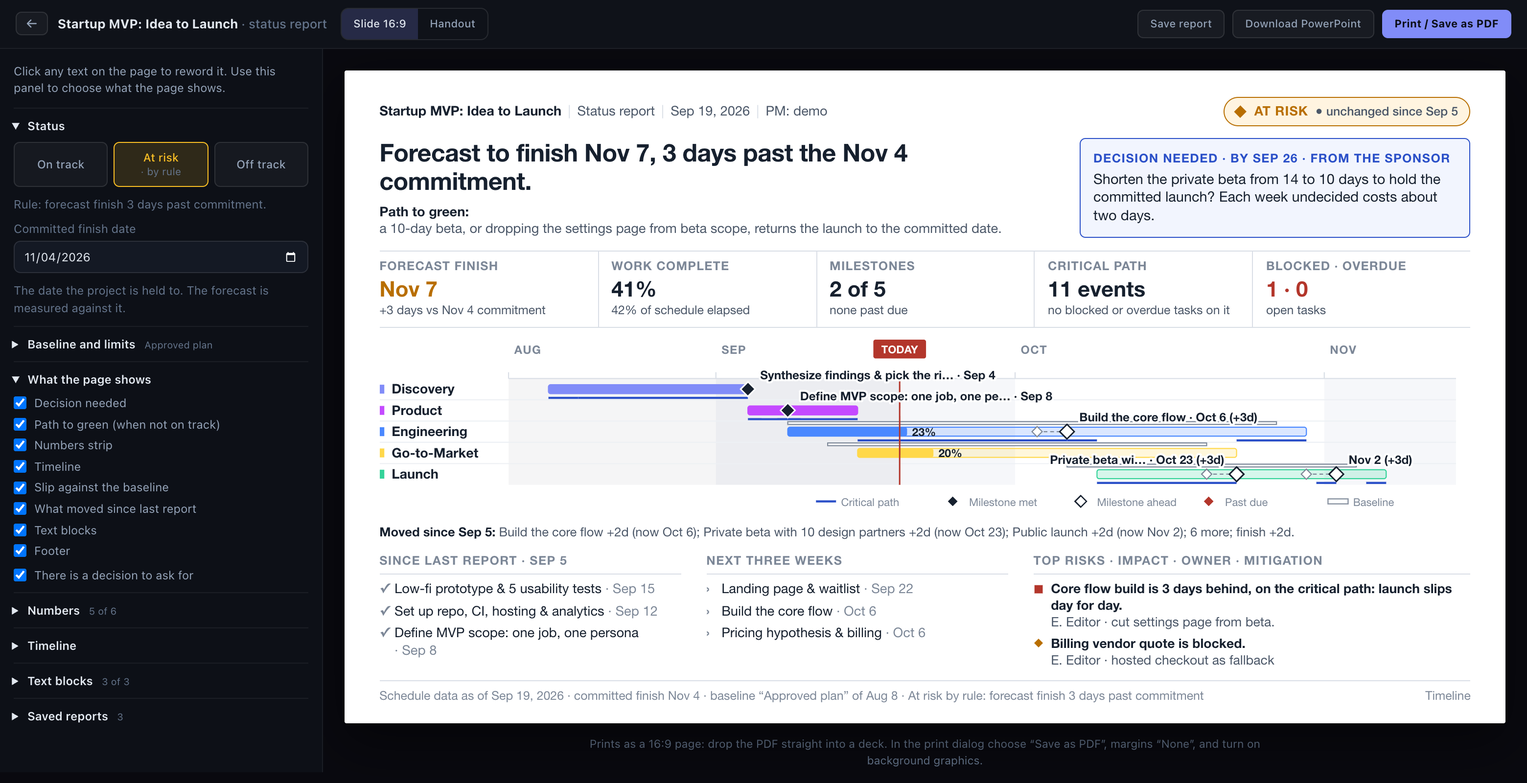
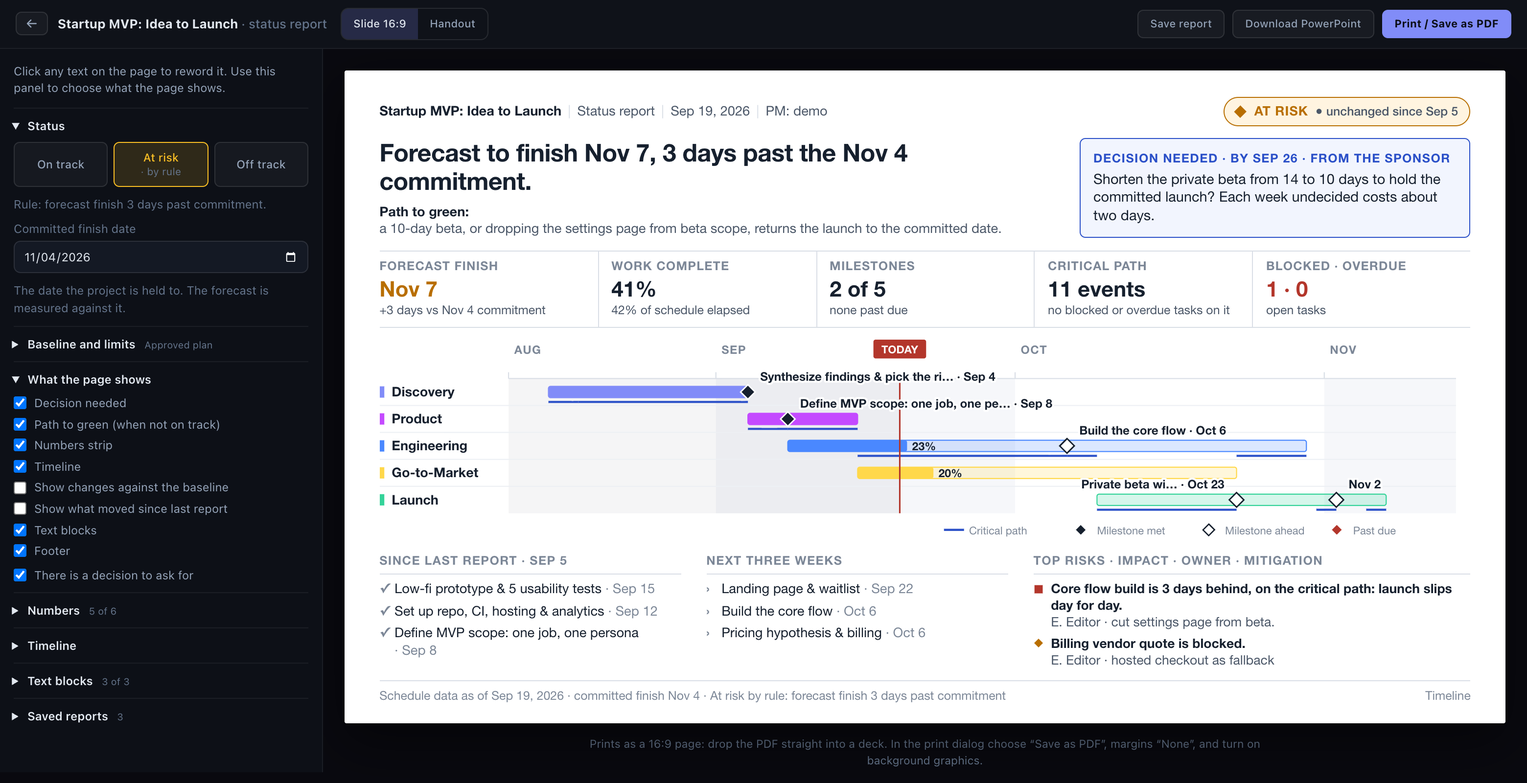
Status report: plan changes are opt-in, per report
Changing a plan is healthy, and how often it changed is for specific
audiences, not every report. A baseline by itself now shows nothing anywhere,
not even in the footer. "Show changes against the baseline" and "Show what
moved since last report" start unticked, like the trend chart; the baseline
panel stays closed and its hint says it is optional. The choice is saved with
the report. The PowerPoint export follows the same rule, and the sample
project's earlier reports start with all three switched off.

README, user guide and design doc reframed to match; screenshots retaken.

Changed region(s): [[0.2487, 0.4688, 0.9327, 0.6875], [0.4663, 0.875, 0.7772, 0.9062], [0.0, 0.5938, 0.1554, 0.6562]]

diff --git a/frontend/src/pages/StatusReportPage.jsx b/frontend/src/pages/StatusReportPage.jsx
@@ -49,7 +49,6 @@ export default function StatusReportPage() {
   const [saved, setSaved]       = useState([])
   const [baselines, setBaselines] = useState([])
   const [baseName, setBaseName] = useState('')
-  const [baseOpen, setBaseOpen] = useState(null)      // null = decide from the project: open until a baseline exists
   const [limits, setLimits]     = useState({})        // threshold inputs, as typed
   const [savedId, setSavedId]   = useState(null)      // set when showing/editing a saved report
   const [frozen, setFrozen]     = useState(false)     // true = facts come from a saved snapshot
@@ -115,7 +114,7 @@ export default function StatusReportPage() {
   const takeBaseline = async () => {
     const name = baseName.trim() || `Plan of ${fmtLong()}`
     setBusy(true)
-    try { await api.baselines.create(projectId, name); setBaseName(''); setBaseOpen(true); await load({ keepDoc: true }); flash('Baseline set: slip is now measured against today’s plan', 'saved') }
+    try { await api.baselines.create(projectId, name); setBaseName(''); await load({ keepDoc: true }); flash('Baseline set. Tick “Show changes against the baseline” on any report that should show them', 'saved') }
     catch { flash('Could not set the baseline.', 'error') }
     finally { setBusy(false) }
   }
@@ -198,6 +197,10 @@ export default function StatusReportPage() {
     <label className="sr-check" key={key}><input type="checkbox" checked={doc.show[key] !== false} onChange={e => set(`show.${key}`, e.target.checked)} />{label}</label>
   )
 
+  const optIn = (key, label) => (
+    <label className="sr-check" key={key}><input type="checkbox" checked={doc.show[key] === true} onChange={e => set(`show.${key}`, e.target.checked)} />{label}</label>
+  )
+
   return (
     <div className="sr-shell">
       <header className="sr-bar">
@@ -250,12 +253,12 @@ export default function StatusReportPage() {
             <p className="sr-hint">The date the project is held to. The forecast is measured against it.</p>
           </details>
 
-          <details open={baseOpen ?? (canEdit && !!facts && !facts.empty && !facts.baseline)} onToggle={e => setBaseOpen(e.currentTarget.open)}>
+          <details>
             <summary>Baseline and limits <small>{facts?.baseline ? facts.baseline.name : 'no baseline'}</small></summary>
             <div className="sr-base">
               {facts?.baseline
-                ? <p className="sr-hint">Slip is measured against <b>{facts.baseline.name}</b>, frozen {fmtLong(facts.baseline.created_at)}: {facts.baseline.moved} event{facts.baseline.moved === 1 ? '' : 's'} moved, {facts.baseline.added} added, {facts.baseline.removed} removed since.</p>
-                : <p className="sr-note sr-note--tip" id="sr-base-tip"><b>No baseline yet.</b> When the plan is approved, name it and click Set baseline. That freezes today’s dates, so later reports can show exactly what slipped and by how much. Nothing changes on the page until a date moves.</p>}
+                ? <p className="sr-hint">{doc.show.baseline === true ? 'This report shows changes' : 'This report does not show them. If you tick “Show changes against the baseline”, they are measured'} against <b>{facts.baseline.name}</b>, frozen {fmtLong(facts.baseline.created_at)}: {facts.baseline.moved} event{facts.baseline.moved === 1 ? '' : 's'} moved, {facts.baseline.added} added, {facts.baseline.removed} removed since.</p>
+                : <p className="sr-hint" id="sr-base-tip"><b>Optional.</b> A baseline freezes today’s dates as the approved plan, so a report <i>can</i> show how the plan has changed since. Plans should change; this is for the audiences that need to see it. Setting one shows nothing by itself: it only appears on a report where you tick “Show changes against the baseline”.</p>}
               {canEdit && (
                 <div className="sr-base-row">
                   <input id="sr-base-name" value={baseName} maxLength={80} onChange={e => setBaseName(e.target.value)} placeholder={facts?.baseline ? 'Name for the new baseline' : 'e.g. Approved plan'} aria-label="Baseline name" />
@@ -284,8 +287,9 @@ export default function StatusReportPage() {
               {showToggle('pathToGreen', 'Path to green (when not on track)')}
               {showToggle('kpis', 'Numbers strip')}
               {showToggle('timeline', 'Timeline')}
-              {facts?.baseline && showToggle('baseline', 'Slip against the baseline')}
-              {facts?.since_last && showToggle('moved', 'What moved since last report')}
+              {/* Off unless chosen: how much a plan has moved is for specific audiences, not every report. */}
+              {facts?.baseline && optIn('baseline', 'Show changes against the baseline')}
+              {facts?.since_last && optIn('moved', 'Show what moved since last report')}
               {layout === 'handout' && (facts?.history?.length || 0) >= 2 && (
                 <label className="sr-check"><input type="checkbox" checked={doc.show.trend === true} onChange={e => set('show.trend', e.target.checked)} />Milestone trend chart</label>)}
               {showToggle('columns', 'Text blocks')}

diff --git a/frontend/src/components/report/reportModel.js b/frontend/src/components/report/reportModel.js
@@ -99,7 +99,7 @@ export function newDocument({ facts, suggestion, previous, user }) {
     headline: suggestion.headline,
     pathToGreen: '',
     moved: draftMoved(facts),
-    show: { pathToGreen: true, decision: true, kpis: true, timeline: true, baseline: true, moved: true, trend: false, columns: true, milestoneTable: true, footer: true, ...(prev?.show || {}) },
+    show: { pathToGreen: true, decision: true, kpis: true, timeline: true, baseline: false, moved: false, trend: false, columns: true, milestoneTable: true, footer: true, ...(prev?.show || {}) },
     decision: { none: prev?.decision?.none ?? true, title: prev?.decision?.title || 'Decision needed', text: prev?.decision?.text || '', neededBy: prev?.decision?.neededBy || '', from: prev?.decision?.from || '' },
     kpis: autoKpis(facts),
     timeline: { hiddenRows: prev?.timeline?.hiddenRows || [], milestoneIds: prev?.timeline?.milestoneIds ?? null, showCritical: prev?.timeline?.showCritical ?? true, showProgress: prev?.timeline?.showProgress ?? true },
@@ -148,7 +148,7 @@ export function footerText(doc, report, facts) {
   const parts = [`Schedule data as of ${fmtLong(facts?.as_of)}`]
   if (facts?.project?.committed_end) parts.push(`${facts.project.commitment_source === 'baseline' ? 'baseline' : 'committed'} finish ${fmtDateOnly(facts.project.committed_end)}`)
   else parts.push('no committed finish date set')
-  if (facts?.baseline) parts.push(`baseline “${facts.baseline.name}” of ${fmtDay(facts.baseline.created_at)}`)
+  if (facts?.baseline && doc.show?.baseline === true) parts.push(`baseline “${facts.baseline.name}” of ${fmtDay(facts.baseline.created_at)}`)
   if (report.status_source === 'override') parts.push(`status set by the author: ${report.override_reason || 'no reason given'}`)
   else if (report.rule_fired) parts.push(`${STATUS[report.status]?.label} by rule: ${report.rule_fired}`)
   return parts.join(' · ')

diff --git a/frontend/src/components/report/StatusPage.jsx b/frontend/src/components/report/StatusPage.jsx
@@ -68,7 +68,7 @@ export default function StatusPage({ doc, report, facts, layout, previous, set, 
     ? `${(['on_track', 'at_risk', 'off_track'].indexOf(report.status) > ['on_track', 'at_risk', 'off_track'].indexOf(previous.status)) ? '▼' : '▲'} was ${STATUS[previous.status]?.label} · ${fmtDay(previous.as_of)}`
     : previous ? `● unchanged since ${fmtDay(previous.as_of)}` : ''
   const handout = layout === 'handout'
-  const withBase = !!facts?.baseline && show.baseline !== false
+  const withBase = !!facts?.baseline && show.baseline === true      // slip is opt-in, per report
   const cols = (doc.columns || []).filter(c => !c.hidden)
 
   const decision = show.decision && (
@@ -161,9 +161,9 @@ export default function StatusPage({ doc, report, facts, layout, previous, set, 
 
         {show.timeline && <ReportTimeline facts={facts} rows={rows} milestones={milestones} dense={handout}
                                           showCritical={doc.timeline?.showCritical !== false} showProgress={doc.timeline?.showProgress !== false}
-                                          showBaseline={show.baseline !== false} />}
+                                          showBaseline={show.baseline === true} />}
 
-        {show.moved !== false && facts?.since_last && (doc.moved || !ro) && (
+        {show.moved === true && facts?.since_last && (doc.moved || !ro) && (
           <div className="sr-moved sr-opt" data-empty={!doc.moved}><b>Moved since {fmtDay(facts.since_last.as_of)}: </b>
             <Editable value={doc.moved} onChange={v => set('moved', v)} readOnly={ro} multiline maxLength={220} placeholder="which dates moved, and by how much." /></div>)}
 

diff --git a/frontend/src/components/report/ReportTimeline.jsx b/frontend/src/components/report/ReportTimeline.jsx
@@ -14,7 +14,7 @@ const W = 1000
 const MONTHS = ['JAN', 'FEB', 'MAR', 'APR', 'MAY', 'JUN', 'JUL', 'AUG', 'SEP', 'OCT', 'NOV', 'DEC']
 const INK = '#16202E', INK3 = '#7C8797', RULE = '#D9DEE6', ACCENT = '#2B50C8', WARN = '#B86E00', BAD = '#B3362B'
 
-export default function ReportTimeline({ facts, rows, milestones, showCritical = true, showProgress = true, showBaseline = true, dense = false }) {
+export default function ReportTimeline({ facts, rows, milestones, showCritical = true, showProgress = true, showBaseline = false, dense = false }) {
   const wrapRef = useRef(null)
   const [aspect, setAspect] = useState(dense ? 0.4 : 0.2)
 

diff --git a/backend/events/tests_pptx_export.py b/backend/events/tests_pptx_export.py
@@ -219,7 +219,7 @@ class PptxBaselineTests(_Base):
         launch.save()
         saved = list(StatusReport.objects.filter(project=self.project))
         self.facts = json.loads(json.dumps(build_facts(self.project, now=now, previous_snapshot=saved[0].snapshot, history=history_from(saved))))
-        self.doc = {**self.doc, 'moved': 'Public launch +5d (now later); finish +5d.'}
+        self.doc = {**self.doc, 'moved': 'Public launch +5d (now later); finish +5d.', 'show': {'baseline': True, 'moved': True}}
 
     def names(self, prs):
         return [s.name for s in _walk(prs.slides[0].shapes)]
@@ -234,15 +234,20 @@ class PptxBaselineTests(_Base):
         self.assertIn('Baseline', [s.text_frame.text for s in _walk(prs.slides[0].shapes) if s.name == 'Legend' and s.has_text_frame])
         self.assertIn('baseline “Approved plan”', _all_text(prs.slides[0]))
 
-    def test_ghosts_can_be_switched_off(self):
-        prs = self.build(facts=self.facts, doc={**self.doc, 'show': {'baseline': False}})
-        self.assertFalse([n for n in self.names(prs) if 'baseline' in n.lower()])
+    def test_slip_is_opt_in_a_baseline_alone_shows_nothing(self):
+        for show in ({}, {'baseline': False}):
+            prs = self.build(facts=self.facts, doc={**self.doc, 'show': show})
+            self.assertFalse([n for n in self.names(prs) if 'baseline' in n.lower()])
+            text = _all_text(prs.slides[0])
+            self.assertNotIn('Approved plan', text)                  # not even in the footer
+            self.assertNotIn('Moved since', text)
+            self.assertNotIn('(+5d)', text)
 
     def test_what_moved_is_printed_with_the_previous_report_date(self):
         text = _all_text(self.build(facts=self.facts).slides[0])
         self.assertIn('Moved since', text)
         self.assertIn('Public launch +5d', text)
-        self.assertNotIn('Moved since', _all_text(self.build(facts=self.facts, doc={**self.doc, 'show': {'moved': False}}).slides[0]))
+        self.assertNotIn('Moved since', _all_text(self.build(facts=self.facts, doc={**self.doc, 'show': {'baseline': True}}).slides[0]))
 
     def test_handout_table_gains_baseline_forecast_and_slip(self):
         prs = self.build(facts=self.facts, layout='handout')
@@ -253,7 +258,7 @@ class PptxBaselineTests(_Base):
         self.assertEqual(rows['Scope locked'][3], 'on plan')
 
     def test_trend_chart_is_native_lines_on_the_handout_only_when_asked(self):
-        on = self.build(facts=self.facts, layout='handout', doc={**self.doc, 'show': {'trend': True}})
+        on = self.build(facts=self.facts, layout='handout', doc={**self.doc, 'show': {'trend': True, 'baseline': True}})
         grp = next(s for s in on.slides[0].shapes if s.shape_type == MSO_SHAPE_TYPE.GROUP and s.name == 'Milestone trend')
         lines = [s for s in grp.shapes if s.shape_type == MSO_SHAPE_TYPE.LINE]
         self.assertGreaterEqual(len(lines), 2)                                       # three points, two segments

diff --git a/backend/events/pptx_export.py b/backend/events/pptx_export.py
@@ -173,7 +173,7 @@ def _footer_text(doc, report, facts, tz):
         parts.append(f'{word} finish {MONTHS[m - 1]} {d}')
     else:
         parts.append('no committed finish date set')
-    if facts.get('baseline'):
+    if facts.get('baseline') and (doc.get('show') or {}).get('baseline') is True:
         b = facts['baseline']
         parts.append(f"baseline “{b.get('name') or ''}” of {_fmt_day(_parse(b['created_at'], tz))}")
     if report.get('status_source') == 'override':
@@ -200,7 +200,7 @@ def _draw_timeline(slide, x0, y0, w, h, doc, facts, tz, pt):
         return None
     milestones = _chosen_milestones(doc, facts, tz)
     show_progress, show_critical = tl.get('showProgress', True), tl.get('showCritical', True)
-    show_baseline = bool(facts.get('baseline')) and (doc.get('show') or {}).get('baseline', True) is not False
+    show_baseline = bool(facts.get('baseline')) and (doc.get('show') or {}).get('baseline') is True      # opt-in, per report
     one_day = timedelta(days=1)
 
     def moved(a, b):
@@ -585,7 +585,7 @@ def build_pptx(*, doc, report, facts, layout='slide', paper='letter', previous=N
     tz = dt_tz(timedelta(minutes=max(-840, min(840, int(tz_offset_minutes or 0)))))
     status = STATUS.get(report.get('status'), STATUS['on_track'])
     report = {**report, 'status': report.get('status') if report.get('status') in STATUS else 'on_track'}
-    show = {'pathToGreen': True, 'decision': True, 'kpis': True, 'timeline': True, 'baseline': True, 'moved': True, 'trend': False,
+    show = {'pathToGreen': True, 'decision': True, 'kpis': True, 'timeline': True, 'baseline': False, 'moved': False, 'trend': False,
             'columns': True, 'milestoneTable': True, 'footer': True, **(doc.get('show') or {})}
     handout = layout == 'handout'
 
@@ -651,8 +651,8 @@ def build_pptx(*, doc, report, facts, layout='slide', paper='letter', previous=N
     table_h = (S['table'] * 1.85 / 72) * (min(8, len(milestones)) + 1) if table_on else 0
     foot_lines = min(2, _lines(_footer_text(doc, report, facts, tz), S['foot'], cw - 0.9)) or 1      # a baseline makes it longer
     foot_h = (0.10 + foot_lines * S['foot'] * 1.3 / 72) if show['footer'] else 0
-    with_base = bool(facts.get('baseline')) and show['baseline'] is not False
-    moved_text = (doc.get('moved') or '').strip() if (show['moved'] is not False and facts.get('since_last')) else ''
+    with_base = bool(facts.get('baseline')) and show['baseline'] is True
+    moved_text = (doc.get('moved') or '').strip() if (show['moved'] is True and facts.get('since_last')) else ''
     moved_lead = f"Moved since {_fmt_day(_parse(facts['since_last']['as_of'], tz))}: " if moved_text else ''
     moved_h = _lines(moved_lead + moved_text, S['ptg'], cw) * S['ptg'] * 1.3 / 72 + 0.04 if moved_text else 0
     trend_on = handout and show['trend'] is True and bool(_trend_series(facts, milestones)[1])

diff --git a/backend/events/management/commands/load_sample.py b/backend/events/management/commands/load_sample.py
@@ -177,8 +177,8 @@ class Command(BaseCommand):
         self._seed_template_projects(users)
 
     def _seed_report_history(self, project, owner, events, now):
-        """A baseline and three earlier status reports, so the report shows slip, what moved, and
-        a milestone trend out of the box. The story: the plan was approved six weeks ago; the
+        """A baseline and three earlier status reports, so slip, what moved and the milestone
+        trend can be switched on in the sample (they are opt-in and start switched off). The story: the plan was approved six weeks ago; the
         unfinished work has since slipped three days, one of them before the last report."""
         import copy
         from datetime import datetime
@@ -221,7 +221,7 @@ class Command(BaseCommand):
                     'v': 1,
                     'header': {'project': project.name, 'subtitle': 'Status report', 'date': f'{when:%b} {when.day}, {when.year}', 'pm': 'PM: demo'},
                     'headline': verdict['headline'], 'pathToGreen': '', 'moved': '',
-                    'show': {'pathToGreen': True, 'decision': True, 'kpis': True, 'timeline': True, 'baseline': True, 'moved': True,
+                    'show': {'pathToGreen': True, 'decision': True, 'kpis': True, 'timeline': True, 'baseline': False, 'moved': False,
                              'trend': False, 'columns': True, 'milestoneTable': True, 'footer': True},
                     'decision': {'none': slip_then == -3, 'title': 'Decision needed', 'neededBy': '', 'from': 'the sponsor',
                                  'text': '' if slip_then == -3 else 'Shorten the private beta from 14 to 10 days to hold the committed launch? Each week undecided costs about two days.'},

diff --git a/README.md b/README.md
@@ -42,37 +42,39 @@ project's toolbar and it opens already filled in.
   up that deck's fonts.
 - **Or a PDF.** Print a single vector page as a 16:9 slide, or as a portrait
   handout on Letter or A4 that adds a milestone table.
-- **Slip against a baseline.** Freeze the approved plan with one click. Every later
-  report shows what slipped and by how much, on the timeline and in the milestone
-  table, and each project sets its own limits for At risk and Off track.
-- **History.** Save a dated copy. The next report starts from its shape, shows
-  whether the status moved, drafts a "what moved since last report" line, and can
-  chart how far each milestone has drifted across reports.
+- **History.** Save a dated copy. The next report starts from its shape and shows
+  whether the status moved since last time.
+- **Plan changes, only when you want them shown.** Optionally freeze an approved
+  plan as a baseline and, per report, show what changed against it, what moved
+  since the last report, and a milestone trend chart. All of it is off by default.
+- **Your own limits.** Each project sets how late counts as At risk or Off track.
 - **Built on an API.** The page reads one versioned, documented endpoint, so
   scripts and other tools can consume the same facts.
 
-<p align="center"><img src="docs/images/status-report-handout.png" width="520" alt="The portrait handout: slip against the baseline, the milestone table, and the milestone trend chart"></p>
+<p align="center"><img src="docs/images/status-report-handout.png" width="520" alt="The portrait handout with the optional baseline table and milestone trend chart switched on"></p>
 
-### Baselines: showing what slipped
+### Optional: showing how the plan has changed
 
-A schedule changes every time someone drags an event, so "are we late?" has no
-answer unless you remember what the plan *was*. A baseline is that memory: a
-frozen copy of every event's dates, taken at the moment the plan was approved.
+Plans should change. Keeping a plan current and pivoting in real time is healthy,
+and most status reports have no reason to dwell on it. So by default the report
+shows only where the project stands today.
 
-1. Open **Status report** from a project's toolbar.
-2. In the left panel, open **Baseline and limits**.
-3. Type a name such as "Approved plan" and click **Set baseline**.
+Some audiences do need the history: a sponsor who approved specific dates, a
+contract milestone, a review of why a launch moved. For those cases you can take a
+**baseline**, a frozen copy of every event's dates at the moment the plan was
+approved, and choose report by report whether to show changes against it.
 
-Nothing on the page changes yet, because the plan and the baseline are identical.
-The difference appears later. When an event moves, the next report shows it:
+1. Open **Status report** and, in the left panel, open **Baseline and limits**.
+2. Name it, for example "Approved plan", and click **Set baseline**. Nothing on any
+   report changes.
+3. On a report that should show it, tick **Show changes against the baseline**.
 
-- a thin outlined strip above the track, where the track used to be
-- a hollow diamond where a milestone used to be, and a label such as "Oct 6 (+3d)"
-- on the handout, a table of baseline date, forecast date, and slip for each milestone
-
-When the plan is formally changed and everyone agrees to new dates, click
-**Re-baseline**. Old baselines are kept. The same panel holds the project's
-**limits**: how many days late counts as Off track, agreed before anything slips.
+That report then marks each track and milestone that moved ("Oct 6 (+3d)") and, on
+the handout, lists baseline date, forecast date, and the difference. Two more
+opt-in items sit beside it: a drafted **what moved since last report** line, and a
+**milestone trend chart** on the handout. Re-baseline whenever new dates are
+agreed; old baselines are kept. The same panel holds the project's **limits** for
+the status rule: how late counts as Off track.
 
 Try it on the [live demo](#live-demo): open **Startup MVP: Idea to Launch** and
 click **Status report**. Details are in the [user guide](docs/USER_GUIDE.md) and

diff --git a/docs/USER_GUIDE.md b/docs/USER_GUIDE.md
@@ -101,8 +101,10 @@ next, and your top risks.
 - **Two layouts:** a 16:9 slide and a portrait handout (Letter or A4) that adds a milestone table.
 - **Print / Save as PDF** produces a single vector page. In the print dialog choose "Save as PDF",
   margins "None", and turn on background graphics. The slide PDF drops straight into a deck.
-- **Baseline.** Under **Baseline and limits**, **Set baseline** freezes today's dates as the
-  approved plan. From then on the report shows slip: an outlined strip above any track that moved,
+- **Baseline (optional).** Plans should change, and by default a report shows only where the
+  project stands today. For the audiences that need the history, **Set baseline** under
+  **Baseline and limits** freezes today's dates as the approved plan. Setting one shows nothing by
+  itself. On a report where you tick **Show changes against the baseline**, the report shows: an outlined strip above any track that moved,
   a hollow diamond where a milestone used to be with the slip in its label, and baseline, forecast
   and slip columns in the handout's table. Re-baseline when the plan is formally changed; old
   baselines are kept. With no committed date, the baseline's finish is what the forecast is
@@ -110,8 +112,8 @@ next, and your top risks.
 - **Limits.** The same section holds the project's limits for the status rule: how late is off
   track, and how far work may trail time before the project is at risk. Agree them with your
   sponsor before anything slips. Blank uses the default.
-- **What moved.** Once a report has been saved, the next one drafts a "Moved since" line under the
-  timeline. Reword it like any other text, or switch it off.
+- **What moved (optional).** Once a report has been saved, tick **Show what moved since last
+  report** to add a drafted "Moved since" line under the timeline. Reword it like any other text.
 - **Milestone trend chart** (handout). After two saved reports you can add a chart of how far each
   milestone has drifted from the date first reported. A line that keeps climbing is a date that
   slips a little every time.
@@ -123,7 +125,7 @@ next, and your top risks.
   shows whether the status moved. If the page gets too full it tells you what to cut; it never
   shrinks the type.
 
-Viewers and commenters can open, print and download a report and see slip against the baseline; owners and editors can edit and save.
+Viewers and commenters can open, print and download a report; owners and editors can edit and save.
 
 ## 4. Templates
 

diff --git a/docs/design/status-one-pager.md b/docs/design/status-one-pager.md
@@ -316,6 +316,12 @@ saved reports. No new roles; it follows [PERMISSIONS.md](../PERMISSIONS.md).
     look at the result. **Not yet opened in PowerPoint, Keynote or Google Slides by a person**:
     QuickLook and Keynote scripting both hung on the build machine.
 - **Phase 3 — the truth. SHIPPED.** As built:
+  - **Everything about plan changes is opt-in, per report.** The owner's direction after first use:
+    changing a plan is healthy, and how often it changed is for specific audiences, not every
+    report. So a baseline by itself shows nothing anywhere, not even in the footer. "Show changes
+    against the baseline", "Show what moved since last report" and the trend chart all start
+    unticked, the baseline panel stays closed, and its hint says it is optional. The choice is
+    saved with the report and carries to the next one like the rest of the page's shape.
   - **Baselines** (`events.Baseline`, `/api/projects/<id>/baselines/`). "Set baseline" in the print
     tool freezes every event's dates under a name. One baseline is active; re-baselining retires
     the old one but keeps it, and deleting the active one re-activates the most recent. Editors and
@@ -324,8 +330,7 @@ saved reports. No new roles; it follows [PERMISSIONS.md](../PERMISSIONS.md).
     stands in, and the page says "baseline" wherever it would say "commitment".
   - **Slip on the timeline** is drawn only where the plan moved by a day or more: a thin outlined
     strip above the track's bar, and for a milestone a hollow baseline diamond joined to today's
-    diamond, with the slip in the label ("Oct 6 (+3d)"). An on-plan chart stays clean. One toggle
-    switches slip off for a report.
+    diamond, with the slip in the label ("Oct 6 (+3d)"). An on-plan chart stays clean.
   - **The handout's milestone table** becomes baseline, forecast, slip, done, status.
   - **Limits per project** (`Project.status_thresholds`): off track beyond N working days or N% of
     the project's length, at risk when work trails time by N points. Blank means the default.
